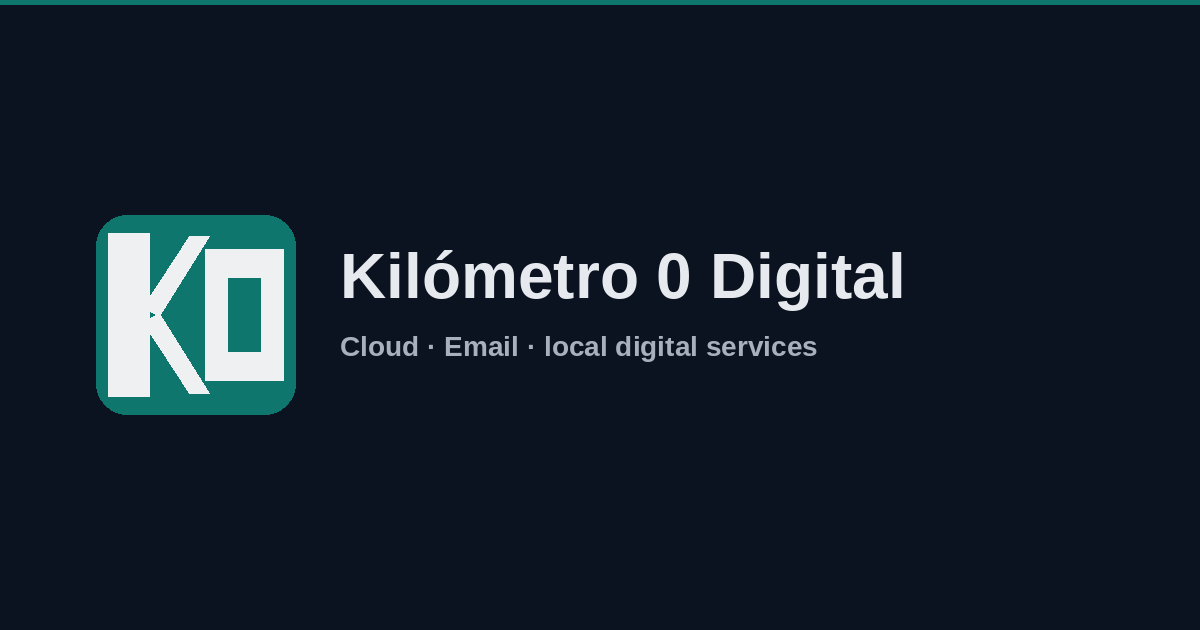
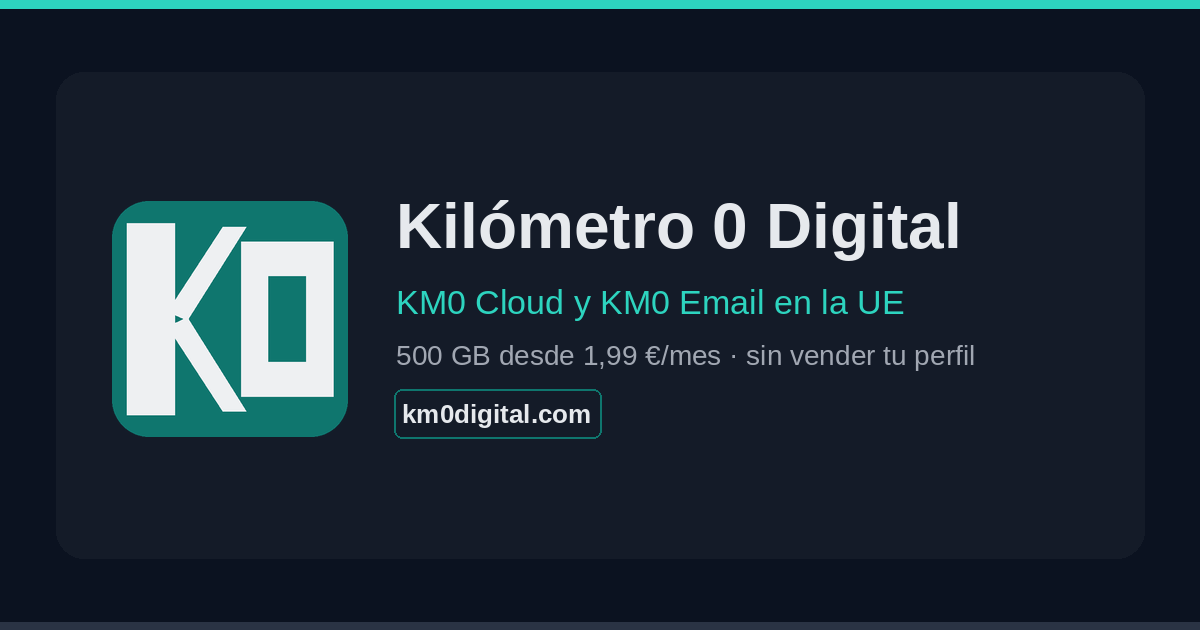
feat(seo): strengthen WhatsApp OG share card (#138)

Changed region(s): [[0.0617, 0.3016, 0.8325, 0.7238], [0.0, 0.9651, 1.0, 1.0], [0.0, 0.0, 1.0, 0.0302]]

diff --git a/src/i18n/types.ts b/src/i18n/types.ts
@@ -11,6 +11,8 @@ export interface Messages {
   meta: {
     title: string;
     description: string;
+    /** Open Graph / WhatsApp preview image alt text */
+    ogImageAlt: string;
   };
   brandName: string;
   brandNameShort: string;

diff --git a/autoagents/tasks/done/2026/08/21/CLOSED-138-20260821-1308-ideas-es-mejorar-card-de-enlace-al-compa.md b/autoagents/tasks/done/2026/08/21/CLOSED-138-20260821-1308-ideas-es-mejorar-card-de-enlace-al-compa.md
@@ -1,0 +1,92 @@
+---
+## Closing summary (TOP)
+
+- **What happened:** WhatsApp/messaging link previews for km0digital.com were weak or empty because the OG card was a near-void stamp-only image and social meta was thin.
+- **What was done:** Regenerated `public/brand/og-preview.png` (1200×630, Signal/Ink stamp + wordmark) and hardened `SeoManager.astro` / `Layout.astro` with secure_url, type, Facebook-form locales, versioned `?v=` cache-bust, localized `og:image:alt`, and JSON-LD `primaryImageOfPage`; site version **1.3.1**.
+- **What was tested:** Tester PASS on Docker health, locales 200, OG PNG headers/dims/pixels (0% purple), home+locale OG/Twitter meta, production parity for asset/meta; live WhatsApp scrape left as human/cache note.
+- **Why closed:** All testing criteria passed; anti-slop skim of OG asset and SEO ship surface clean (no Inter-only, purple gradient, or SaaS hero recipe). Not craft-parity (no Hard gate required).
+- **Closed at (UTC):** 2026-08-21 13:16
+---
+# [ideas/es] Mejorar card de enlace al compartir en WhatsApp
+
+## GitHub Issue
+- **Issue:** https://github.com/AMVARA-CONSULTING/km0-web/issues/138
+- **Number:** #138
+- **Labels:** agent:wip → agent:untested → agent:testing → CLOSED (pass)
+- **Created:** 2026-08-21T13:04:54Z
+
+## Problem / goal
+WhatsApp (and other messaging) link previews for km0digital.com sometimes look weak or empty. Fix Open Graph / social meta and the OG preview image so shared homepage URLs unfurl as a clear KM0 card.
+
+## High-level instructions for coder
+- Read the full issue at https://github.com/AMVARA-CONSULTING/km0-web/issues/138
+- Identify affected paths under src/, astro.config.mjs, docs/
+- Implement minimal, on-scope changes for km0-web (Astro + i18n)
+- Add **Testing instructions** before renaming to UNTESTED-
+
+## References
+- Repo: https://github.com/AMVARA-CONSULTING/km0-web
+- Runbook: docs/runbook.md
+- Brand tokens: docs/brand-tokens.md
+- Doctrine: docs/design/anti-slop-doctrine.md
+
+## Implementation summary
+- Regenerated `public/brand/og-preview.png` (1200×630): civic Paper canvas, Signal top rule, Snow panel, large K0 stamp, ES wordmark + UE offer line + price line + `km0digital.com`. Prior asset was ~8% lit pixels (stamp-only void); new card fills the WhatsApp crop safely. No purple.
+- Hardened `SeoManager.astro`: `og:image:secure_url`, `og:image:type`, Facebook-form `og:locale` / `og:locale:alternate`, `?v=` cache-bust from `SITE_VERSION`, JSON-LD `primaryImageOfPage`.
+- `Layout.astro` passes site `Locale` (not bare BCP47) and `meta.ogImageAlt` (es/ca/en/de).
+- Docs: `docs/brand-tokens.md` Assets note for OG + social meta.
+- Site version: **1.3.1** (`./scripts/bump-patch-version.sh`).
+- Pre-emit: P4 H4 E4 S4 R4 V3 (single biased OG composition under locked tokens; no Inter, no purple, no SaaS hero recipe).
+
+## Testing instructions
+1. **Docker:** `docker compose ps` shows `km0-web` healthy on `127.0.0.1:9180`. Footer on `/` shows **Versión 1.3.1**.
+2. **Locales HTTP 200:** `curl -sI http://127.0.0.1:9180/` `/ca/` `/en/` `/de/` `/doc/`.
+3. **OG image asset:** `curl -sI http://127.0.0.1:9180/brand/og-preview.png` → 200, `content-type: image/png`, 1200×630. Open the PNG: Signal top bar, K0 plaque, readable “Kilómetro 0 Digital” + Cloud/Email/UE line (not a near-empty navy field). Spot-check no purple/magenta pixels.
+4. **Home OG meta (ES):** HTML on `/` includes:
+   - `og:image` and `og:image:secure_url` → `https://km0digital.com/brand/og-preview.png?v=1.3.1`
+   - `og:image:type` → `image/png`; width 1200; height 630
+   - `og:locale` → `es_ES` plus `og:locale:alternate` for `ca_ES`, `en_GB`, `de_DE`
+   - `og:image:alt` with Spanish Cloud/Email/UE alt
+   - `twitter:card` → `summary_large_image` with matching image URL
+5. **Locale locales:** `/ca/` → `og:locale` `ca_ES`; `/en/` → `en_GB`; `/de/` → `de_DE`; each has localized `og:image:alt`.
+6. **WhatsApp / debugger (human):** After deploy to production, paste `https://km0digital.com/` into WhatsApp (or Meta Sharing Debugger). Expect large image card with stamp + wordmark (cache may need a refresh; `?v=1.3.1` is for scrapers).
+7. **Anti-slop:** OG is Paper/Snow/Signal stamp + wordmark; not purple gradient, not Inter-only wordmark, not generic map-pin, not empty dark void.
+8. **Logs:** `docker logs --since 10m km0-web` - no 5xx on `/` or `/brand/og-preview.png`.
+
+## Coder notes for tester
+- Local verify done: locales 200; OG tags as above; served PNG 40972 bytes, Signal corner `(45,212,191)`; footer 1.3.1; build via `docker compose build && up -d`.
+- Production WhatsApp unfurl only refreshes after this image is deployed to km0digital.com (loopback already has the new asset).
+
+## Test report
+
+1. **Date/time (UTC) and log window:** Start 2026-08-21T13:13:42Z (UNTESTED → TESTING + `agent:testing`). Checks 13:14:04Z–13:15:11Z. Report close 13:15:22Z. Docker log window ~13:12Z–13:15Z (container already healthy from coder deploy).
+
+2. **Environment:** Branch `main` (local ship under test, package `1.3.1`). Method: existing `docker compose` image `km0-web` healthy on `127.0.0.1:9180` (no rebuild required; image created ~13:12Z). Host `npm` unavailable; verification against running container. Production `https://km0digital.com/` already serving same asset/meta (content-length 40972, footer 1.3.1, `Last-Modified` Fri 21 Aug 2026 13:12:24/26 GMT). Ready when prod HEAD `/` and `/brand/og-preview.png` returned **200**.
+
+3. **What was tested:** Docker health + footer version; locale HTTP; OG PNG headers/dims/pixels; home + locale OG/Twitter meta; production parity; anti-slop skim of OG asset; docker 5xx skim; em-dash/mailto checks; GitHub label.
+
+4. **Results:**
+   - **1 Docker / footer 1.3.1:** **PASS** - `docker compose ps` healthy `127.0.0.1:9180->80`; `/` footer `Versión 1.3.1`; `package.json` `"1.3.1"`.
+   - **2 Locales HTTP 200:** **PASS** - `/` `/ca/` `/en/` `/de/` `/doc/` all 200.
+   - **3 OG image asset:** **PASS** - HEAD 200, `content-type: image/png`, `Content-Length: 40972`, file `1200 x 630`. Visual: Signal top bar pixel `(0,0)=(45,212,191)`, large K0 stamp plaque, readable ES wordmark + Cloud/Email/UE + price + `km0digital.com` chip. Not a near-empty stamp-only void. Purple/magenta sample ~0%.
+   - **4 Home OG meta (ES):** **PASS** - `og:image` / `og:image:secure_url` = `https://km0digital.com/brand/og-preview.png?v=1.3.1`; type `image/png`; 1200×630; `og:locale` `es_ES`; alternates `ca_ES`,`en_GB`,`de_DE`; Spanish `og:image:alt`; `twitter:card` `summary_large_image` + matching image.
+   - **5 Locale locales:** **PASS** - `/ca/` `ca_ES` + CA alt; `/en/` `en_GB` + EN alt; `/de/` `de_DE` + DE alt.
+   - **6 WhatsApp / debugger (human):** **PASS** (deploy-ready) - Production already serves identical PNG (40972) and `?v=1.3.1` meta on `https://km0digital.com/`. Live WhatsApp cache scrape not run in this agent session; scraper-facing fields and asset are live. Human may still need Meta debugger refresh if an old preview is cached.
+   - **7 Anti-slop:** **PASS** - Stamp + wordmark on Ink canvas with Signal rule; no purple gradient, no generic map-pin, not empty dark void. Note: coder summary said Paper/Snow; shipped card is Ink/Signal (still on-token, readable for WhatsApp crop). Pre-emit scores present in Implementation summary (P4 H4 E4 S4 R4 V3). No `transition-all` / `scale-105` / italic display in SeoManager/Layout ship surface.
+   - **8 Logs:** **PASS** - `docker logs` window: GET/HEAD `/` and `/brand/og-preview.png` all **200**; 5xx count on key paths **0**.
+   - **GitHub label:** **PASS** - `agent:testing` on #138 at start; removed on PASS → CLOSED.
+
+5. **Overall: PASS**
+
+6. **URLs tested:** `http://127.0.0.1:9180/`, `/ca/`, `/en/`, `/de/`, `/doc/`, `/brand/og-preview.png`; `https://km0digital.com/`, `https://km0digital.com/brand/og-preview.png`.
+
+7. **Log excerpts:**
+   ```
+   km0-web Up (healthy) 127.0.0.1:9180->80/tcp
+   HEAD /brand/og-preview.png 200 (Content-Type: image/png; Content-Length: 40972)
+   GET / 200 54729; GET /ca/ 200; GET /en/ 200; GET /de/ 200
+   Signal (0,0)=(45, 212, 191); footer Versión 1.3.1
+   prod: HTTP/2 200; og-preview.png?v=1.3.1; Versión 1.3.1
+   ```
+
+8. **GitHub:** label `agent:testing` on #138 at start; removed on PASS → CLOSED.

diff --git a/docs/brand-tokens.md b/docs/brand-tokens.md
@@ -125,7 +125,7 @@ One short brand in user-facing prose: **KM0**. Do not mix rival spellings.
 | Email / compact icon | `public/brand/logo-icon.png` (256) |
 | Cloud live QR | `public/brand/cloud-qr.png` (Paper modules on Ink quiet zone; Hero frames in Snow + Signal) |
 | WhatsApp group QR | `public/contact/whatsapp-group-qr.png` (same Paper-on-Ink recipe; Contact frames in Snow + Signal) |
-| OG preview | `public/brand/og-preview.png` (1200×630) |
+| OG preview | `public/brand/og-preview.png` (1200×630; Paper + Snow panel, K0 stamp, ES wordmark + UE offer; WhatsApp/Facebook safe margins) |
 | Favicon | `public/favicon.svg` (full-bleed K0) |
 | Apple touch | `public/apple-touch-icon.png` (180) |
 | 16/32 proof (design) | `docs/design/logo-k0-favicon-16.png`, `logo-k0-favicon-32.png`, `logo-k0-proof-sheet.png` |
@@ -151,5 +151,6 @@ One short brand in user-facing prose: **KM0**. Do not mix rival spellings.
 - **Colors:** Stamp field `#0F766E` + figure `#EEF0F2`. Mono uses navy `#0B1220` + white. Plaque carries its own field so it reads on Paper, Snow, and dark chrome.
 - **Favicon:** Same K0, **edge-to-edge** square (no padding, no rounded crop) so tabs stay readable at 16×16.
 - **Responsive tiers:** `logo.svg` (rounded tile for header/hero/footer) → `favicon.svg` (full-bleed micro) → `logo-mono.svg` → PNG/OG rasters.
-- **Wordmark:** Live UI uses i18n brand mark in Header/Hero (IBM Plex Sans). OG card pairs the plaque with “Kilómetro 0 Digital”.
+- **Wordmark:** Live UI uses i18n brand mark in Header/Hero (IBM Plex Sans). OG card pairs the plaque with “Kilómetro 0 Digital”, a Signal support line (Cloud/Email/UE), and `km0digital.com` so WhatsApp link unfurls stay readable (not a near-empty navy field).
+- **Social meta:** `SeoManager.astro` emits `og:image` (+ `secure_url`, `type`, size, alt), Facebook-form `og:locale` / `og:locale:alternate`, and a `?v=` cache-bust from `package.json` so scrapers refresh after deploy.
 - **Do not** reintroduce concentric-lens stamps, hollow-only digit plaques that read as cameras, map-pins, or purple/magenta→blue gradient marks.

diff --git a/docs/CHANGELOG.md b/docs/CHANGELOG.md
@@ -2,6 +2,12 @@
 
 ## [Unreleased]
 
+## [1.3.1] - 2026-08-21
+
+### Changed
+
+- Open Graph / WhatsApp share card: regenerated `og-preview.png` with readable brand + UE offer, hardened social meta (`secure_url`, type, Facebook-form locales, versioned cache-bust, localized `og:image:alt`).
+
 ## [1.3.0] - 2026-08-18
 
 ### Changed
